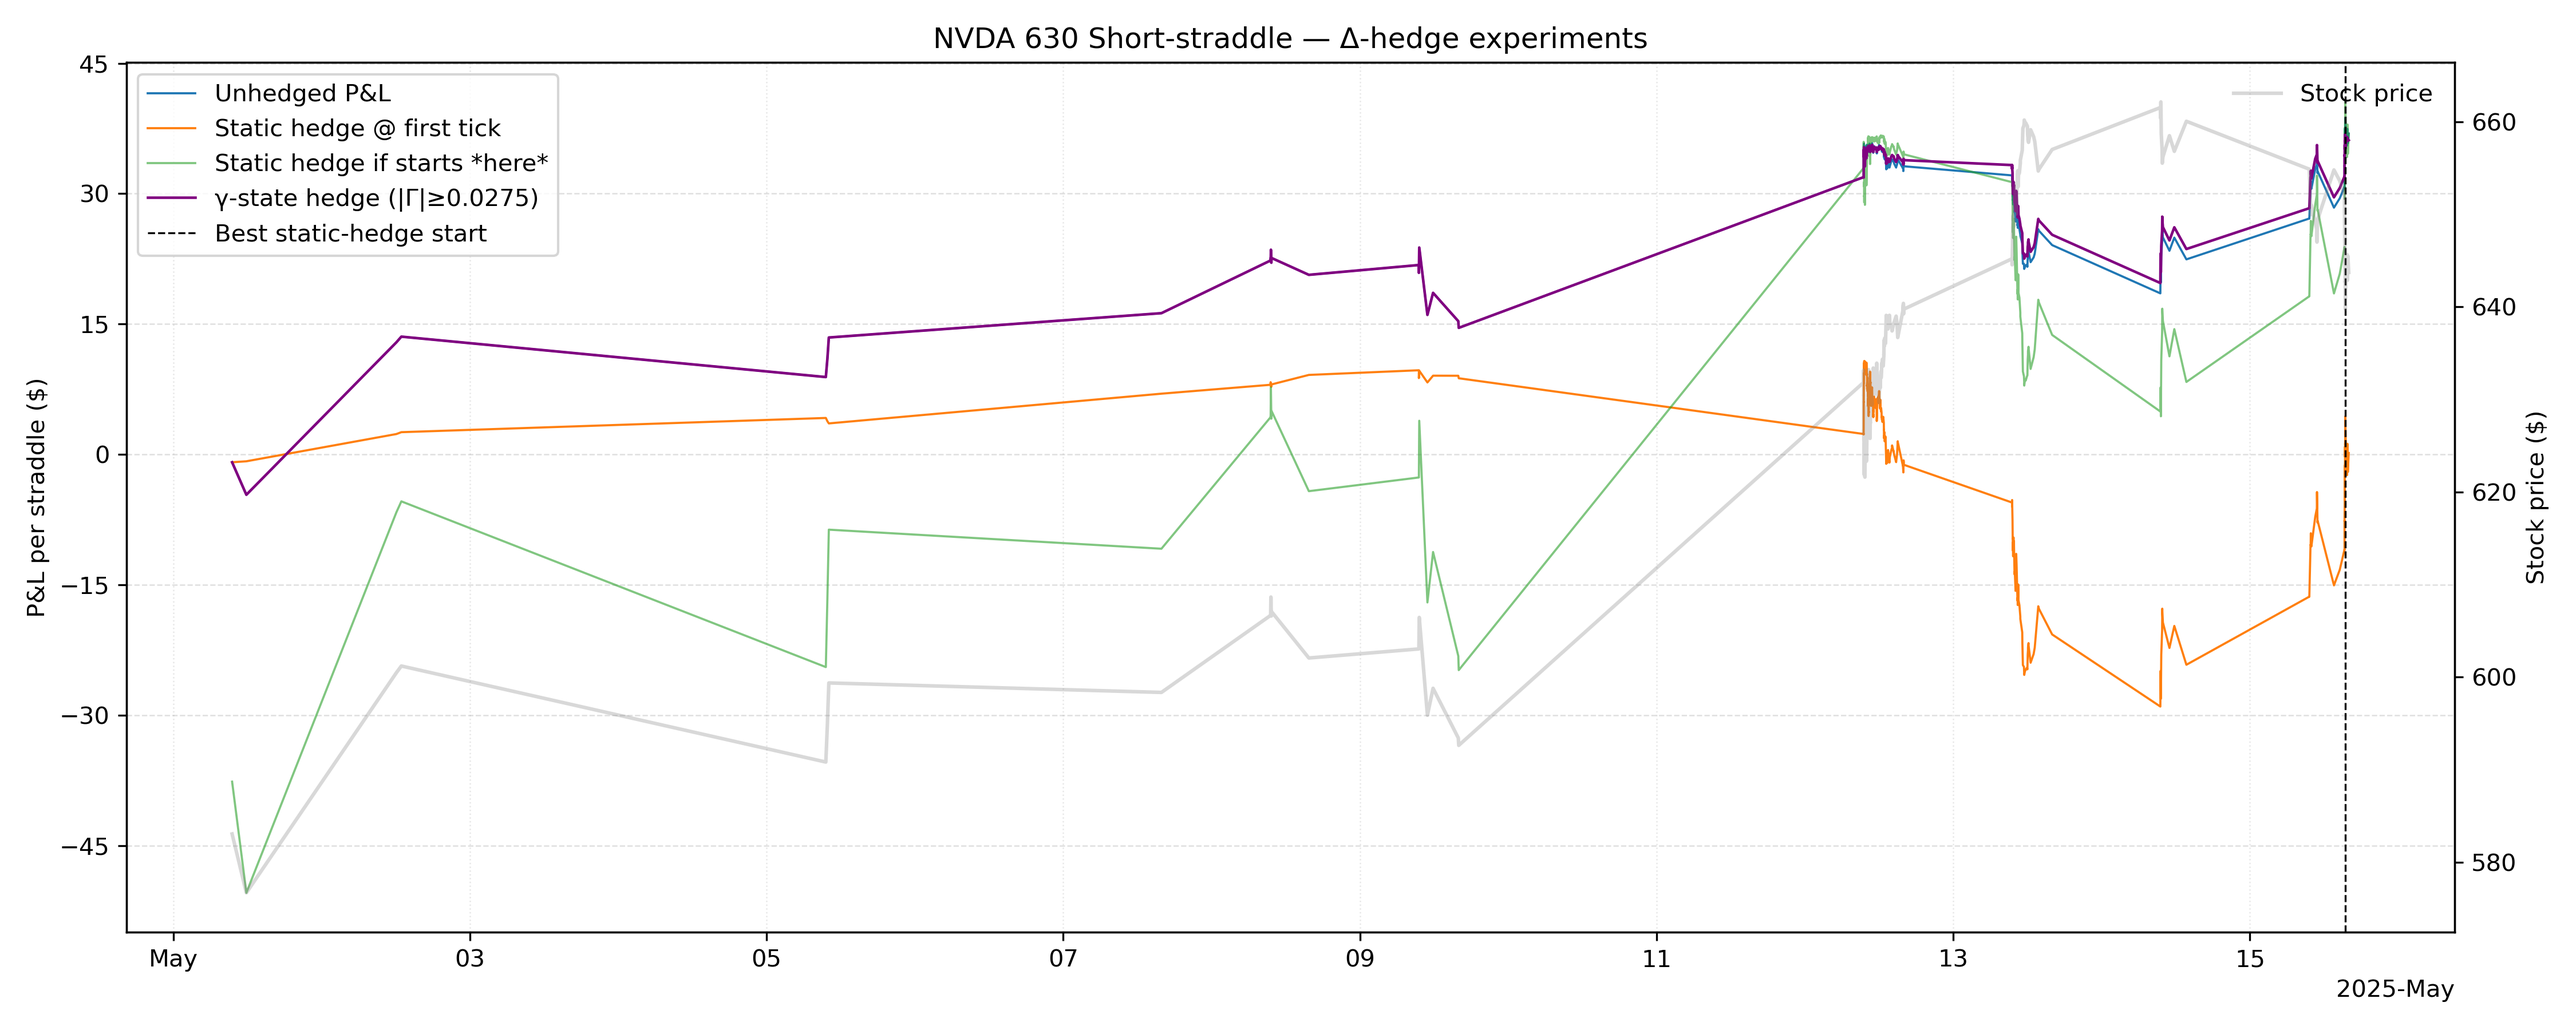
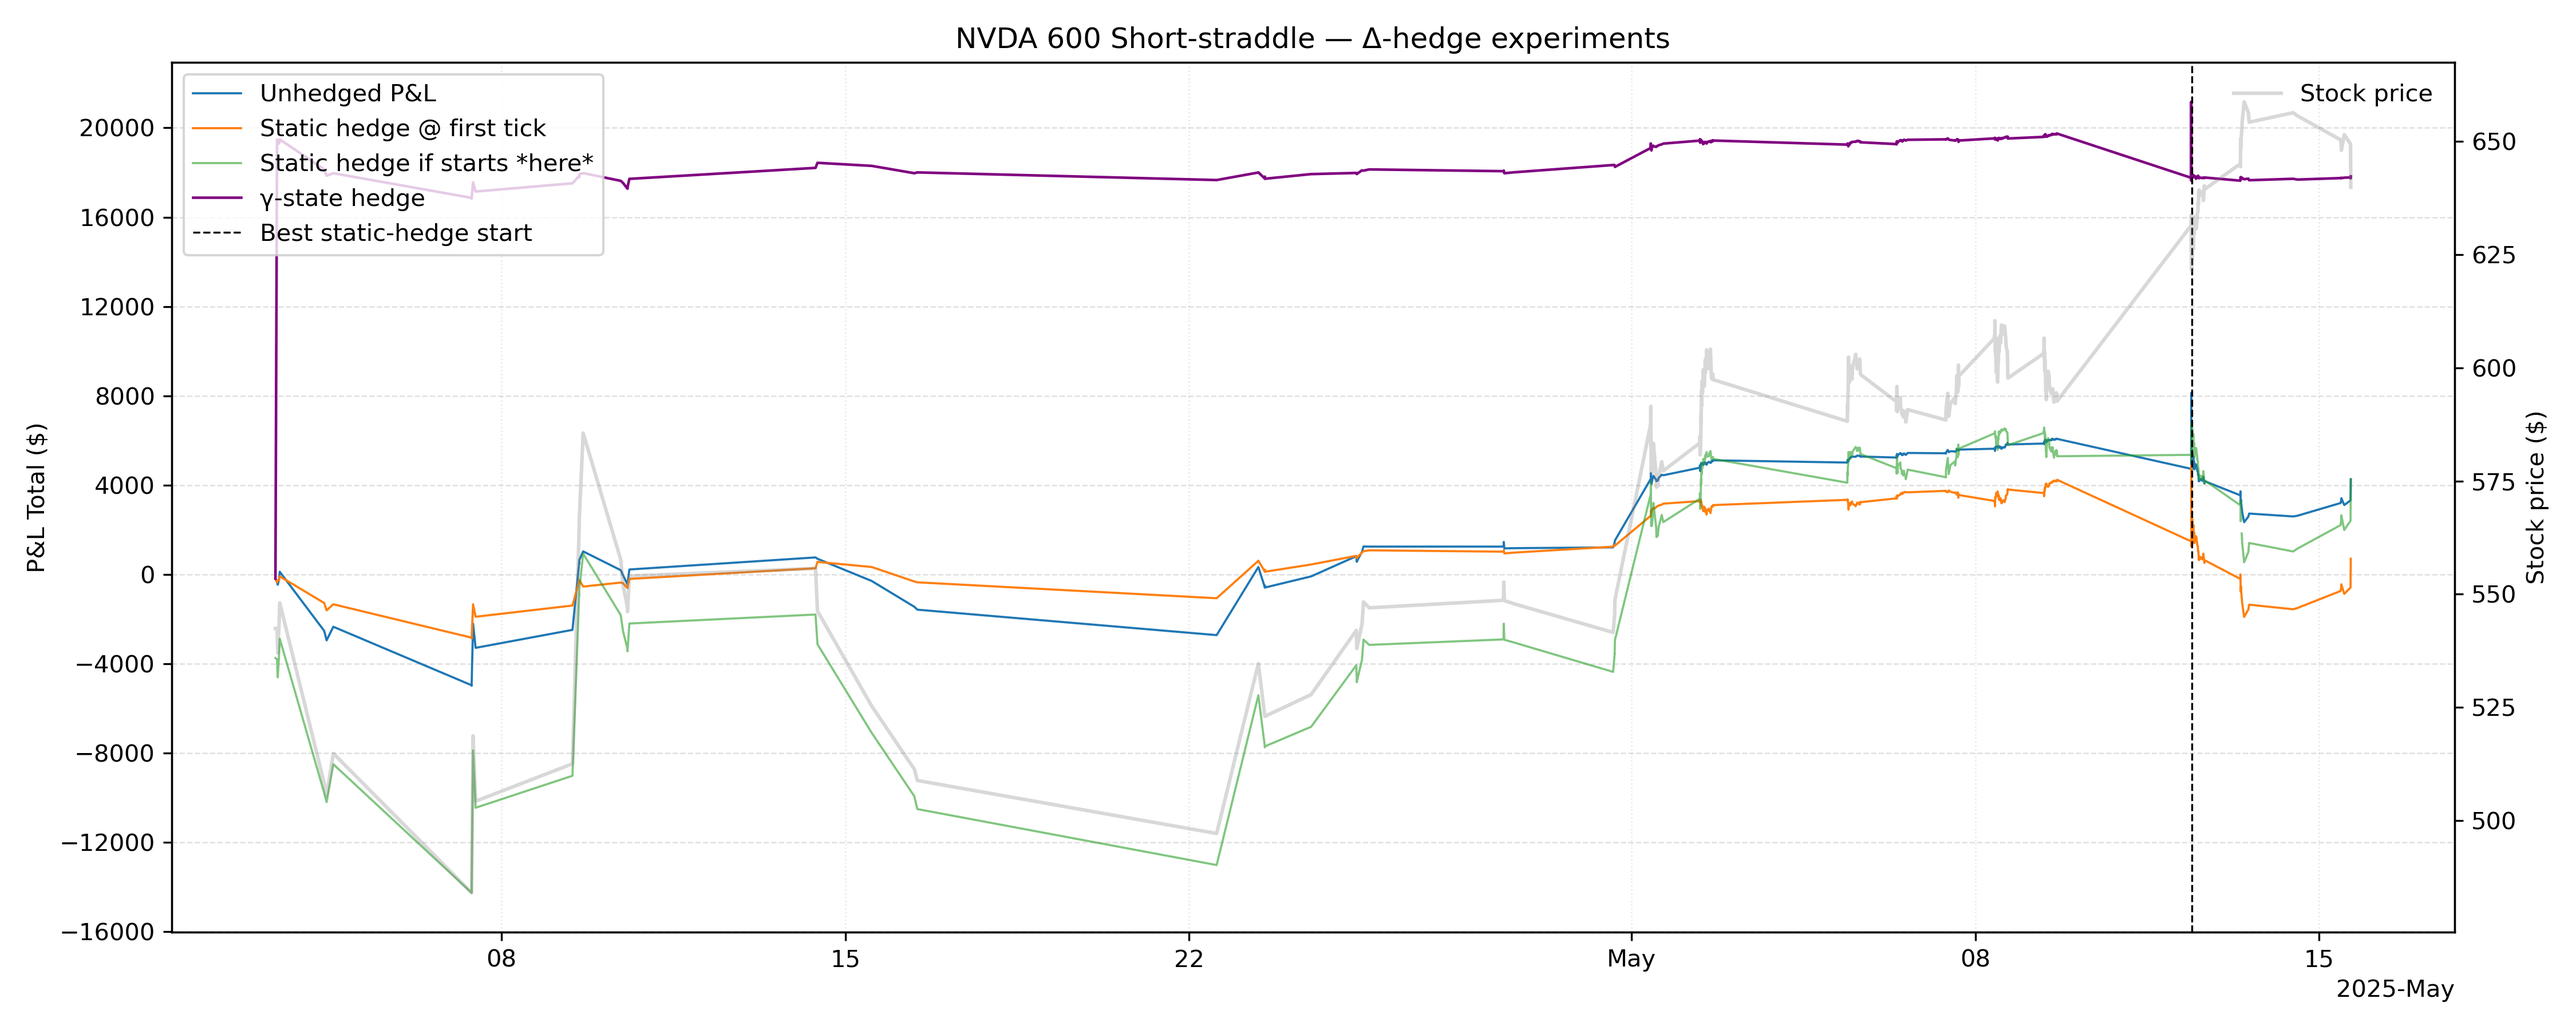
gamma signal figured out high pnl

diff --git a/Assignment 3 Hedging Optimization/gamma_signal_hedge.py b/Assignment 3 Hedging Optimization/gamma_signal_hedge.py
@@ -27,7 +27,7 @@ from scipy.optimize import brentq
 # ────────────────────────────────────────────────────────────────
 # Parameters
 # ────────────────────────────────────────────────────────────────
-strike = 630                              # common strike for call & put
+strike = 600                              # common strike for call & put
 
 DB_PATH_C = Path("META_call.db")
 DB_PATH_P  = Path("META_put.db")
@@ -35,7 +35,8 @@ TABLE_C = f"META2516E{strike}"
 TABLE_P = f"META2516Q{strike}"
 r = 0.06                                   # annual risk‑free rate
 expiry_date = pd.Timestamp("2025-05-16")  # contract expiry
-gamma_thresh = 0.0275                   # |Γ| trigger for γ‑state hedge
+EPS_DELTA = 0.05
+EPS_GAMMA = 0.005                   # |Γ| trigger for γ‑state hedge
 
 # ────────────────────────────────────────────────────────────────
 # Black‑Scholes helpers
@@ -99,39 +100,42 @@ def gamma_bs(S, tau, sigma, d1):
 # γ‑state hedge logic
 # ────────────────────────────────────────────────────────────────
 
-def run_gamma_state_hedge(df: pd.DataFrame, thresh: float) -> pd.DataFrame:
-    """Enter hedge when |Γ| ≥ thresh, exit when |Γ| < thresh."""
+def run_gamma_aware_delta_hedge(df: pd.DataFrame, eps_delta=0.05, eps_gamma=0.002) -> pd.DataFrame:
     position = 0.0
-    hedged = False
     tgt, qty, cf = [], [], []
 
-    for g, d, S in zip(df.gamma_port, df.delta_port, df.S_last):
-        if (not hedged) and abs(g) >= thresh:      # ENTER
-            target = -d
+    for i in range(1, len(df)):
+        d_now = df.delta_port.iloc[i]
+        g_now = df.gamma_port.iloc[i]
+        delta_S = df.S_last.iloc[i] - df.S_last.iloc[i - 1]
+        delta_change_est = abs(g_now * delta_S)
+
+        if abs(d_now) >= eps_delta and delta_change_est >= eps_gamma:
+            target = -d_now * 100
             trade = target - position
             position = target
-            hedged = True
-        elif hedged and abs(g) < thresh:           # EXIT
-            target = 0.0
-            trade = -position
-            position = 0.0
-            hedged = False
-        else:                                      # HOLD
+        else:
             target = position
             trade = 0.0
+
         tgt.append(target)
         qty.append(trade)
-        cf.append(-trade * S)
+        cf.append(-trade * df.S_last.iloc[i])
 
-    out = df.copy()
-    out["target_shares"] = tgt
-    out["trade_qty"] = qty
-    out["cash_flow"] = cf
-    out["cum_cash"] = out.cash_flow.cumsum()
-    out["hedge_value"] = out.target_shares * out.S_last
-    out["hedge_pnl_gamma"] = out.cum_cash + out.hedge_value
-    out["pnl_gamma_total"] = out.pnl_port + out.hedge_pnl_gamma
-    return out
+    tgt.insert(0, -df.delta_port.iloc[0] * 100)
+    qty.insert(0, tgt[0])
+    cf.insert(0, -qty[0] * df.S_last.iloc[0])
+
+    df = df.copy()
+    df["target_shares"] = tgt
+    df["trade_qty"] = qty
+    df["cash_flow"] = cf
+    df["cum_cash"] = df["cash_flow"].cumsum()
+    df["hedge_value"] = df["target_shares"] * df["S_last"]
+    df["hedge_pnl_gamma"] = df["cum_cash"] + df["hedge_value"]
+    df["pnl_gamma_total"] = df["pnl_port"] + df["hedge_pnl_gamma"]
+
+    return df
 
 # ────────────────────────────────────────────────────────────────
 # Load option tables
@@ -193,24 +197,24 @@ open_bid_P = df.bid_P.iloc[0]
 
 df["pnl_call"] = open_bid_C - df.ask_C
 df["pnl_put"]  = open_bid_P - df.ask_P
-df["pnl_port"] = df.pnl_call + df.pnl_put
+df["pnl_port"] = (df.pnl_call + df.pnl_put) * 100
 
 # Static Δ hedge @ first tick
 open_stock  = df.S_last.iloc[0]
 delta0      = df.delta_port.iloc[0]
 
-df["hedge_pnl_first"]  = -(df.S_last - open_stock) * delta0
+df["hedge_pnl_first"]  = -(df.S_last - open_stock) * (delta0 * 100)
 df["pnl_hedged_first"] = df.pnl_port + df.hedge_pnl_first
 
 # Static Δ hedge scan (best start)
 S_end = df.S_last.iloc[-1]
-df["hedge_pnl_scan"]  = -(S_end - df.S_last) * df.delta_port
+df["hedge_pnl_scan"]  = -(S_end - df.S_last) * (df.delta_port * 100)
 df["pnl_scan_total"] = df.pnl_port + df.hedge_pnl_scan
 best_idx = df.pnl_scan_total.idxmax()
 best_row = df.loc[best_idx]
 # γ-state hedge
 # ────────────────────────────────────────────────────────────────
-df = run_gamma_state_hedge(df, gamma_thresh)
+df = run_gamma_aware_delta_hedge(df, eps_delta=EPS_DELTA, eps_gamma=EPS_GAMMA)
 
 # -------------- insert these two lines just below the call --------------
 pct_hedged = (df.target_shares != 0).mean() * 100        # % of ticks hedged
@@ -221,7 +225,6 @@ pct_hedged = (df.target_shares != 0).mean() * 100        # % of ticks hedged
 
 print("===== NVDA short‑straddle hedge summary ===================")
 print(f"Strike (K)                    : {strike}")
-print(f"Γ threshold (abs)             : {gamma_thresh}")
 print(f"First‑tick portfolio Δ        : {delta0: .4f}")
 print("------------------------------------------------------------")
 print(f"Optimum static‑hedge start    : {best_row.V_time}")
@@ -241,7 +244,7 @@ fig, ax = plt.subplots(figsize=(15, 6))
 ax.plot(df.V_time, df.pnl_port,          label="Unhedged P&L",               lw=0.9)
 ax.plot(df.V_time, df.pnl_hedged_first,  label="Static hedge @ first tick", lw=0.9)
 ax.plot(df.V_time, df.pnl_scan_total,    label="Static hedge if starts *here*", lw=0.9, alpha=0.6)
-ax.plot(df.V_time, df.pnl_gamma_total,   label=f"γ‑state hedge (|Γ|≥{gamma_thresh})", lw=1.1, color="purple")
+ax.plot(df.V_time, df.pnl_gamma_total,   label=f"γ‑state hedge", lw=1.1, color="purple")
 
 ax.axvline(best_row.V_time, color="black", ls="--", lw=0.8, label="Best static‑hedge start")
 
@@ -258,7 +261,7 @@ ax.grid(which="major", axis="y", ls="--", lw=0.6, alpha=0.4)
 ax.grid(which="major", axis="x", ls=":", lw=0.6, alpha=0.3)
 
 ax.set_title(f"NVDA {strike} Short‑straddle — Δ‑hedge experiments")
-ax.set_ylabel("P&L per straddle ($)")
+ax.set_ylabel("P&L Total ($)")
 ax.legend(loc="upper left")
 ax2.legend(loc="upper right", frameon=False)
 

diff --git a/Assignment 3 Hedging Optimization/hedger_ml_live.py b/Assignment 3 Hedging Optimization/hedger_ml_live.py
@@ -14,11 +14,8 @@ from scipy.stats         import norm
 from scipy.optimize      import brentq
 
 # ─── User parameters ──────────────────────────────────────────────────
-<<<<<<< HEAD
-STRIKE        = 680
-=======
-STRIKE        = 600
->>>>>>> c1442665569a4fd48d91f7cddaf5c66a90dd321e
+
+STRIKE        = 660
 ML_THRESHOLD  = 0.9
 MAX_TRADES    = 100
 COOLDOWN_MIN  = 10
@@ -86,7 +83,7 @@ df["strike"]     = STRIKE
 
 # ─── Option P&L (short straddle: sell @ bid, buy back @ ask) ──────────
 openC, openP = df.bid_C.iat[0], df.bid_P.iat[0]
-df["pnl_opt"] = (openC-df.ask_C)+(openP-df.ask_P)
+df["pnl_opt"] = ((openC-df.ask_C)+(openP-df.ask_P)) * 100
 
 # ─── Live simulation ─────────────────────────────────────────────────
 cash, stk_pos = 0.0, 0.0
@@ -109,7 +106,7 @@ for _, row in df.iterrows():
 
     cool_ok = (row.V_time-last_trade) >= timedelta(minutes=COOLDOWN_MIN)
     if prob>=ML_THRESHOLD and cool_ok and trades<MAX_TRADES:
-        target = 0.8*row.delta_port
+        target = 0.8*row.delta_port * 100
         d_pos  = target - stk_pos
         cash  -= d_pos * row.S_last
         stk_pos = target
@@ -126,13 +123,16 @@ for _, row in df.iterrows():
     hedge_val = cash + stk_pos * row.S_last
     pnl_series.append(row.pnl_opt + hedge_val)
 
+
 df["pnl_hedged"] = pnl_series
+
+
 
 # ─── Summary ─────────────────────────────────────────────────────────
 print("\n=== ML-driven hedge summary ===")
 print(f"Trades executed          : {trades}/{MAX_TRADES}")
-print(f"Final naked   P&L ($/str): {df.pnl_opt.iat[-1]*100: .2f}")
-print(f"Final hedged  P&L ($/str): {df.pnl_hedged.iat[-1]*100: .2f}")
+print(f"Final naked   P&L ($/str): {df.pnl_opt.iat[-1]: .2f}")
+print(f"Final hedged  P&L ($/str): {df.pnl_hedged.iat[-1]: .2f}")
 print("================================================\n")
 
 # ─── Plot ─────────────────────────────────────────────────────────────
@@ -159,7 +159,7 @@ if MAKE_PLOT:
     ax.grid(axis="y", ls="--", alpha=0.4)
     ax.grid(axis="x", ls=":",  alpha=0.3)
     ax.set_title(f"NVDA {STRIKE} straddle — ML-directed Δ-hedge")
-    ax.set_ylabel("P&L per straddle ($)")
+    ax.set_ylabel("P&L Total ($)")
     ax.legend(loc="upper left")
 
     fig.tight_layout()
